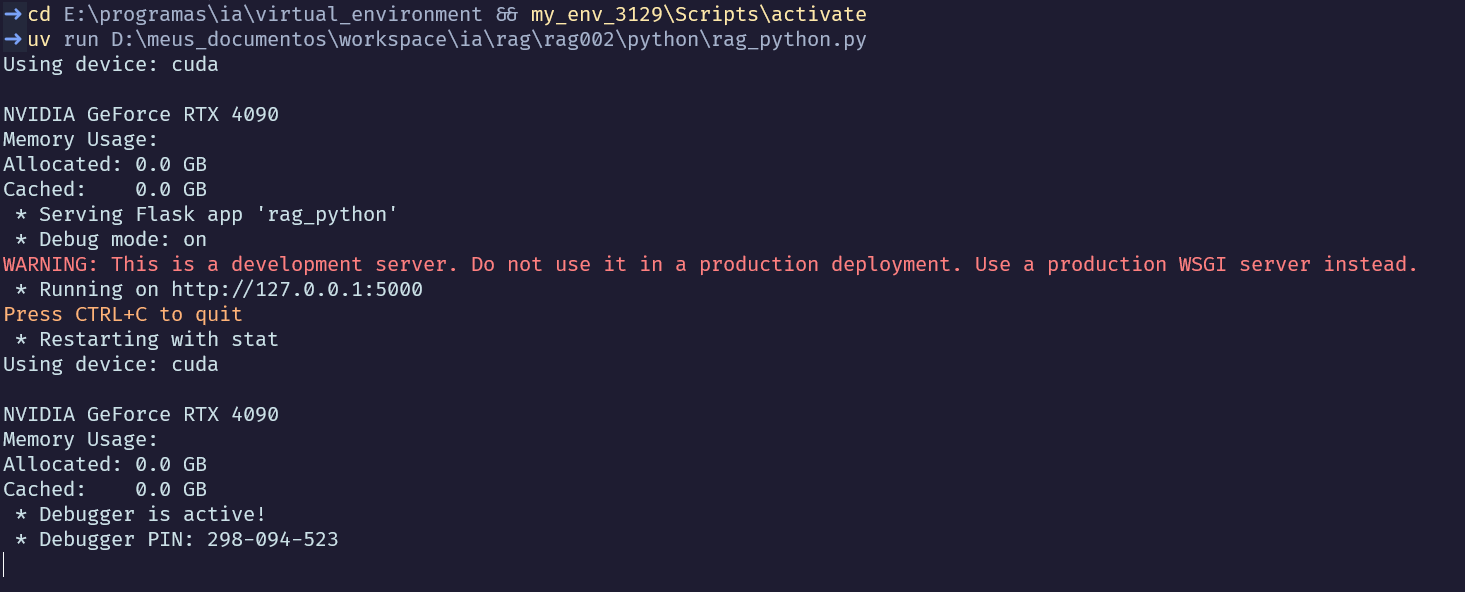
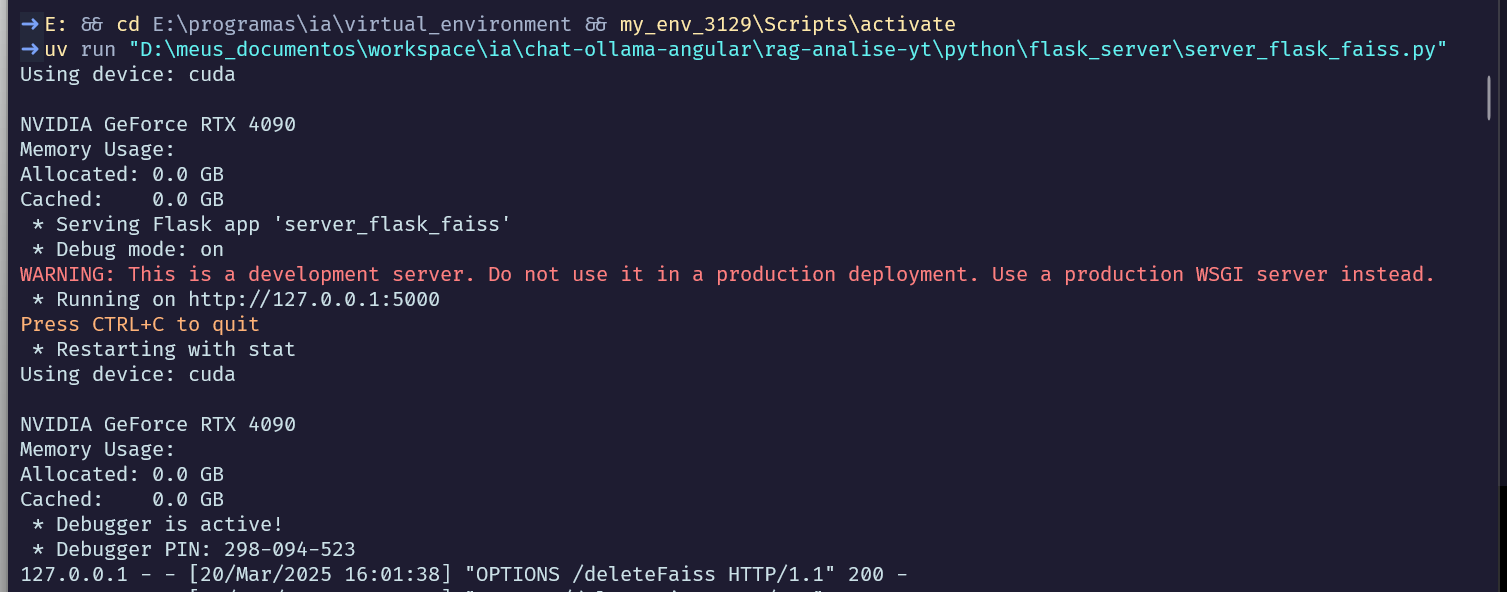
readme, delete faiss

Changed region(s): [[0.0, 0.0, 0.9829, 1.0], [0.9829, 0.8209, 1.0, 1.0], [0.9829, 0.1216, 1.0, 0.2128]]

diff --git a/chat-ollama-angular/src/app/components/modal-rag/modal-rag.component.scss b/chat-ollama-angular/src/app/components/modal-rag/modal-rag.component.scss
@@ -93,7 +93,7 @@
 }
 
 .modal-button {
-    width: 33%;
+    width: 25%;
     padding: 8px 0;
     border: none;
     border-radius: 5px;
@@ -103,24 +103,37 @@
 .accept {
     background-color: rgb(34, 34, 34);
     color: white;
+
+    &:hover {
+        background-color: rgb(0, 0, 0);
+    }
 }
 
 .reject {
     background-color: #ececec;
     color: rgb(34, 34, 34);
+
+    &:hover {
+        background-color: #ddd;
+    }
 }
 
 .indexar {
     background-color: #86d993;
     color: white;
+
+    &:hover {
+        background-color: #ddd;
+    }
 }
 
-.accept:hover {
-    background-color: rgb(0, 0, 0);
-}
+.deletar {
+    background-color: #e52207;
+    color: white;
 
-.reject:hover {
-    background-color: #ddd;
+    &:hover {
+        background-color: #ddd;
+    }
 }
 
 .exit-button {
@@ -136,11 +149,11 @@
     border: none;
     border-radius: 5px;
     cursor: pointer;
-}
 
-.exit-button:hover {
-    background-color: #ddd;
-    color: white;
+    &:hover {
+        background-color: #ddd;
+        color: white;
+    }
 }
 
 .svgIconCross {

diff --git a/chat-ollama-angular/src/app/components/modal-rag/modal-rag.component.ts b/chat-ollama-angular/src/app/components/modal-rag/modal-rag.component.ts
@@ -170,6 +170,17 @@ export class ModalRagComponent implements OnDestroy {
   }
   //#endregion
 
+  protected deletarFaiss(): void {
+    this.pythonRagService.deleteFaiss().subscribe({
+      next: (res) => {
+        this.mensagemComponente?.show('Faiss db excluído', TipoMensagem.INFO, 1000);
+      },
+      error: (err) => {
+        this.mensagemComponente?.show('Erro ao excluir o Faiss db', TipoMensagem.ERRO, 1000);
+      }
+    });
+  }
+
   // public onFileSelected(event: any): void {
   //   const files: FileList = event.target.files;
   //   if (!files || files.length <= 0) { return; }

diff --git a/chat-ollama-angular/src/app/components/modal-rag/modal-rag.component.html b/chat-ollama-angular/src/app/components/modal-rag/modal-rag.component.html
@@ -36,6 +36,7 @@
             <div class="button-wrapper">
                 <button class="accept modal-button" (click)="salvar()">Salvar</button>
                 <button class="indexar modal-button" (click)="indexar()" id="btnIndexar">Indexar</button>
+                <button class="deletar modal-button" (click)="deletarFaiss()" id="btnDeletar">Deletar</button>
                 <button class="reject modal-button" (click)="hide()">Fechar</button>
             </div>
         </div>

diff --git a/rag-analise-yt/python/flask_server/server_flask_faiss.py b/rag-analise-yt/python/flask_server/server_flask_faiss.py
@@ -1,4 +1,4 @@
-# cd E:\programas\ia\virtual_environment && my_env_3129\Scripts\activate
+# E: && cd E:\programas\ia\virtual_environment && my_env_3129\Scripts\activate
 # uv run "D:\meus_documentos\workspace\ia\chat-ollama-angular\rag-analise-yt\python\flask_server\server_flask_faiss.py"
 
 import sys
@@ -70,6 +70,7 @@ def do_question_llm():
 @app.route('/deleteFaiss', methods=['DELETE'])
 def delete_faiss():
     faissAuxiliar.excluir_faiss()
+    vectorstore = faissAuxiliar.get_vector_store()
     return jsonify({"success": True, "message": "Faiss deleted successfully"}), 200
 
 @app.route('/status', methods=['GET'])
@@ -86,7 +87,7 @@ if __name__ == '__main__':
 
 
 # Como executar
-# cd E:\programas\ia\virtual_environment && my_env_3129\Scripts\activate
+# E: && cd E:\programas\ia\virtual_environment && my_env_3129\Scripts\activate
 # uv run "D:\meus_documentos\workspace\ia\chat-ollama-angular\rag-analise-yt\python\flask_server\server_flask_faiss.py"
 
 # curls

diff --git a/rag-analise-yt/README.md b/rag-analise-yt/README.md
@@ -1,13 +1,13 @@
 # RAG python FLASK
 
 Este projeto sobe um servidor Python Flask para indexar arquivos com [Docling](https://github.com/docling-project/docling)
-em uma base de dados vetorial [Chromadb](https://www.trychroma.com/) para posterior consulta RAG com LLMs servidos
+em uma base de dados vetorial [Faiss](https://ai.meta.com/tools/faiss/) para posterior consulta RAG com LLMs servidos
 pelo [Ollama](https://ollama.com/).
 
-O servidor Flask executa no endereço [http://127.0.0.1:5000](http://127.0.0.1:5000), arquivo `rag_python_chroma.py`
+O servidor Flask executa no endereço [http://127.0.0.1:5000](http://127.0.0.1:5000), arquivo `rag_python_faiss.py`
 
 Exemplo de indexação curl: 
-- `curl -X POST -H "Content-Type: text/plain" -d "D:\meus_documentos\workspace\ia\chat-ollama-angular\rag-analise-yt\data" http://127.0.0.1:5000/indexarChromaDB?collection_name=local-rag`
+- `curl -X POST -H "Content-Type: text/plain" -d "D:\meus_documentos\workspace\ia\chat-ollama-angular\data" http://127.0.0.1:5000/indexarFaissdb`
 
 Para mais informações veja a seção `Curls` > `Indexar`.
 
@@ -92,7 +92,7 @@ Obs<sup>2</sup>: talvez precise habilitar o `mklink` no Windows.
 
 ## tesserocr
 
-O `tesserocr` é utilizado para fazer o OCR das imagens e posterior indexação no [Chromadb](https://www.trychroma.com/)
+O `tesserocr` é utilizado para fazer o OCR das imagens e posterior indexação no [Faiss](https://ai.meta.com/tools/faiss/)
 
 - [tesserocr-windows_build](https://github.com/simonflueckiger/tesserocr-windows_build)
 - [tesserocr-windows_build releases](https://github.com/simonflueckiger/tesserocr-windows_build/releases)
@@ -120,32 +120,33 @@ Adicione ao Windows PATH:
 - TESSDATA_PREFIX : E:\programas\ia\Tesseract-OCR\tessdata
 
 
-## Chromadb
+## ~~Chromadb~~
 
-Como servidor
+~~Como servidor~~
 
-- [http://localhost:8000/](http://localhost:8000/)
+- ~~[http://localhost:8000/](http://localhost:8000/)~~
 
-```bash
-chroma run --host localhost --port 8000 --path ./my_chroma_data
-```
+~~chroma run --host localhost --port 8000 --path ./my_chroma_data~~
 
-Atualmente o projeto salva os dados diretamente no disco com:
 
-`chromadb.PersistentClient(path=persist_directory, settings=Settings(allow_reset=True))`
+~~Atualmente o projeto salva os dados diretamente no disco com:~~
 
-Para mais informações veja o arquivo: `rag_python_chroma.py`
+~~`chromadb.PersistentClient(path=persist_directory, settings=Settings(allow_reset=True))`~~
 
+~~Para mais informações veja o arquivo: `rag_python_faiss.py`~~
 
 ## Ollama
 
 ```bash
 curl -fsSL https://ollama.com/install.sh | sh
 ollama serve
-ollama pull nomic-embed-text
-ollama run llama3.2
-ollama run deepseek-r1
+```
+
+```bash
 ollama pull gemma3:27b
+ollama pull deepseek-r1:32b
+ollama pull llama3.2:3b
+ollama pull nomic-embed-text
 ```
 
 Após a instalação do Ollama, execute com: `ollama serve`
@@ -156,11 +157,11 @@ Com o Ollama executando, instale os modelos com pull (ou run para instalar e tes
 
 # Flask Rag
 
-Para subir um servidor flask, execute o arquivo `rag_python_chroma.py`
+Para subir um servidor flask, execute o arquivo `rag_python_faiss.py`
 
 ```bash
 cd E:\programas\ia\virtual_environment && my_env_3129\Scripts\activate
-uv run D:\meus_documentos\workspace\ia\chat-ollama-angular\rag-analise-yt\python\rag_python_chroma.py
+uv run D:\meus_documentos\workspace\ia\chat-ollama-angular\rag-analise-yt\python\rag_python_faiss.py
 ```
 
 ![uv rag python](readme_imagens/uv_rag_python.png)
@@ -178,20 +179,19 @@ Obs<sup>2</sup>: verifique os PATHS e configurações específicas do seu SO
 
 ### Indexar
 
-Para indexar os arquivos no [Chromadb](https://www.trychroma.com/):
+Para indexar os arquivos no [Faiss](https://ai.meta.com/tools/faiss/):
 
-| Variável | Valor                                                 |
-| -------- | ----------------------------------------------------- |
-| Pasta    | D:\\meus_documentos\\workspace\\ia\\rag\\rag002\\data |
-| Coleção  | local-rag                                             |
+| Variável | Valor                                                          |
+| -------- | -------------------------------------------------------------- |
+| Pasta    | D:\\meus_documentos\\workspace\\ia\\chat-ollama-angular\\data  |
 
-`curl -X POST -H "Content-Type: text/plain" -d "D:\meus_documentos\workspace\ia\chat-ollama-angular\rag-analise-yt\data" http://127.0.0.1:5000/indexarChromaDB?collection_name=local-rag`
+`curl -X POST -H "Content-Type: text/plain" -d "D:\meus_documentos\workspace\ia\chat-ollama-angular\data" http://127.0.0.1:5000/indexarFaissdb`
 
-Todos arquivos que estiverem no diretório (e subdiretórios) informado serão indexados no [Chromadb](https://www.trychroma.com/) na pasta: 
+Todos arquivos que estiverem no diretório (e subdiretórios) informado serão indexados no [Faiss](https://ai.meta.com/tools/faiss/) na pasta: 
 
-- `persist_directory = r"D:\meus_documentos\workspace\ia\rag\rag002\chroma\chroma_db"`
+- `persist_directory = r"D:\meus_documentos\workspace\ia\chat-ollama-angular\db\faiss_db"`
 
-Para alterar essa pasta, modifique o arquivo `rag_python_chroma.py`
+Para alterar essa pasta, modifique o arquivo `rag_python_faiss.py`
 
 ### Consulta RAG
 
@@ -205,28 +205,25 @@ Para o exemplo, previamente indexei um arquivo pdf com informações sobre o jog
 
 A resposta segue o padrão readme dos modelos de llm.
 
-### deleteCollection e resetChroma
+### Delete Faiss
 
-Excluir coleção (exclui, porém não limpa os embeddings):
+Excluir Faiss db:
 
-`curl -X DELETE "http://127.0.0.1:5000/deleteCollection?collection_name=local-rag"`
-
-Resetar o chroma (não funcional):
-
-`curl "http://127.0.0.1:5000/resetChroma"`
+`curl -X DELETE "http://127.0.0.1:5000/deleteFaiss"`
 
 # Notebooks
 
-Os notebooks ipynb `notebook001.ipynb`, `notebook002.ipynb` e `notebook003.ipynb` servem de base para estudo, referência, melhora e testes dos métodos do arquivo `rag_python_chroma.py`, utilizando o Chromadb.
+Os notebooks ipynb `notebook001.ipynb`, `notebook002.ipynb` e `notebook003.ipynb` servem de base para estudo, referência, melhora e testes dos métodos do arquivo `rag_python_faiss.py`, utilizando o Chromadb.
 
 Devido ao tamanho dos arquivos gerados pelo Chromadb, falha nos métodos de `delete_collection` e `reset`, optou-se pelo uso do banco de dados vetorial [Faiss](https://ai.meta.com/tools/faiss/). Os notebooks ipynb `faiss001.ipynb`, `faiss002.ipynb` e `faiss003.ipynb` servem de base para estudo e referência.
 
 # TODO
 
 - [ ] utilizar o `tesserocr` para fazer o OCR das imagens dos PDFs
-- [ ] Integrar o servidor Flask RAG com o projeto [chat ollama angular](https://github.com/surfx/chat-ollama-angular).
+- [x] Integrar o servidor Flask RAG com o projeto [chat ollama angular](https://github.com/surfx/chat-ollama-angular).
 - [ ] Alterar o projeto [rag-analise-yt](https://github.com/surfx/rag-analise-yt) na indexação - receber um conjunto de arquivos via POST
 - [x] Criar GET para is alive
+- [ ] Parametrizar o serviço
 
 # Créditos
 
@@ -248,4 +245,4 @@ Quero agradecer à [Tony Kipkemboi](https://www.youtube.com/@tonykipkemboi) e se
 - [uv](https://docs.astral.sh/uv/)
 - [chat ollama angular](https://github.com/surfx/chat-ollama-angular)
 - [Docling](https://github.com/docling-project/docling)
-- [Chromadb](https://www.trychroma.com/)
+- [Faiss](https://ai.meta.com/tools/faiss/)

diff --git a/README.md b/README.md
@@ -2,3 +2,108 @@
 
 Projetos [chat ollama](https://github.com/surfx/chat-ollama-angular/tree/master/chat-ollama-angular) e [python docling faiss ollama rag](https://github.com/surfx/chat-ollama-angular/tree/master/rag-analise-yt)
 
+![Chat ollama](chat-ollama-angular/readme_imagens/chat_ollama.png)
+
+# Configuração
+
+## 1. C++ (Windows)
+
+Instale o [vs_BuildTools.exe](https://visualstudio.microsoft.com/pt-br/visual-cpp-build-tools/)
+
+## 2. Ollama (WSL)
+
+[Ollama download](https://ollama.com/download)
+
+```bash
+curl -fsSL https://ollama.com/install.sh | sh
+ollama serve
+```
+
+### 2.1 Modelos de interesse
+
+Altere conforme necessidade
+
+```bash
+ollama pull gemma3:27b
+ollama pull deepseek-r1:32b
+ollama pull llama3.2:3b
+ollama pull nomic-embed-text
+```
+
+## 3. Uv (Windows)
+
+[uv](https://docs.astral.sh/uv/getting-started/installation/)
+
+```pwsh
+powershell -ExecutionPolicy ByPass -c "irm https://astral.sh/uv/install.ps1 | iex"
+uv python install 3.12.9
+cd E:\programas\ia\virtual_environment
+uv venv --python 3.12.9 my_env_3129
+my_env_3129\Scripts\activate
+uv pip install torch torchvision torchaudio --index-url https://download.pytorch.org/whl/cu126
+uv pip install -U ipykernel tqdm numpy sympy chromadb protobuf==3.20.3 docling
+uv pip install -U unstructured langchain langchain-community langchain_ollama langchain_chroma "unstructured[all-docs]" ipywidgets
+uv pip install -U pytesseract flask flask-cors
+```
+
+## 4. tesserocr (Windows)
+
+O `tesserocr` é utilizado para fazer o OCR das imagens e posterior indexação no [Faiss](https://ai.meta.com/tools/faiss/)
+
+- [tesserocr-windows_build](https://github.com/simonflueckiger/tesserocr-windows_build)
+- [tesserocr-windows_build releases](https://github.com/simonflueckiger/tesserocr-windows_build/releases)
+
+```bash
+cd E:\programas\ia\virtual_environment
+my_env_3129\Scripts\activate
+uv pip install https://github.com/simonflueckiger/tesserocr-windows_build/releases/download/tesserocr-v2.8.0-tesseract-5.5.0/tesserocr-2.8.0-cp312-cp312-win_amd64.whl
+```
+
+### 4.1 tesseract releases
+
+[tesseract releases](https://github.com/tesseract-ocr/tesseract/releases)
+
+descompactar e adicione ao PATH do Windows: `E:\programas\ia\Tesseract-OCR\tessdata`
+
+### 4.2 tessdata
+
+[tessdata github](https://github.com/tesseract-ocr/tessdata)
+
+Faça o download de [tessdata](https://github.com/tesseract-ocr/tessdata/archive/refs/heads/main.zip) e descompacte em: `E:\programas\ia\Tesseract-OCR\tessdata`
+
+Adicione ao Windows PATH:
+
+- TESSDATA_PREFIX : E:\programas\ia\Tesseract-OCR\tessdata
+
+# Iniciar
+
+## 1. Ollama (WSL)
+
+```bash
+ollama serve
+```
+
+## 2. Chat angular (WSL)
+
+```bash
+cd /home/emerson/projetos/chat-ollama-angular/chat-ollama-angular
+./run.sh
+```
+
+Por padrão o projeto executa em:
+
+[http://localhost:4200/](http://localhost:4200/)
+
+## 3. server flask faiss (Windows)
+
+```pwsh
+E: && cd E:\programas\ia\virtual_environment && my_env_3129\Scripts\activate
+uv run "D:\meus_documentos\workspace\ia\chat-ollama-angular\rag-analise-yt\python\flask_server\server_flask_faiss.py"
+```
+
+# Informações
+
+Para mais informações, veja:
+
+- [chat ollama](https://github.com/surfx/chat-ollama-angular/tree/master/chat-ollama-angular)
+- [python docling faiss ollama rag](https://github.com/surfx/chat-ollama-angular/tree/master/rag-analise-yt)
